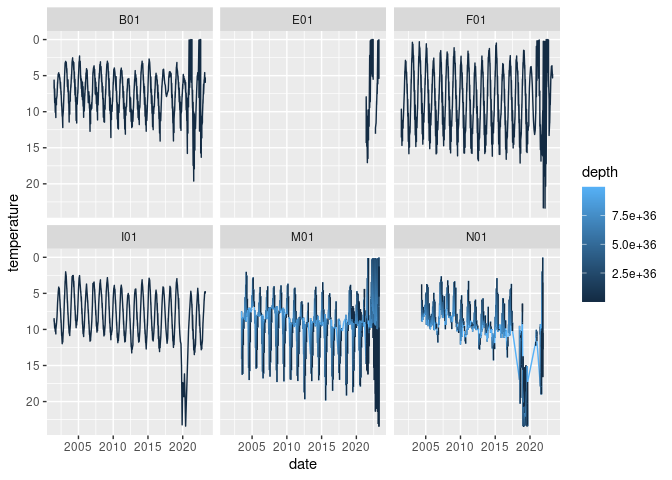
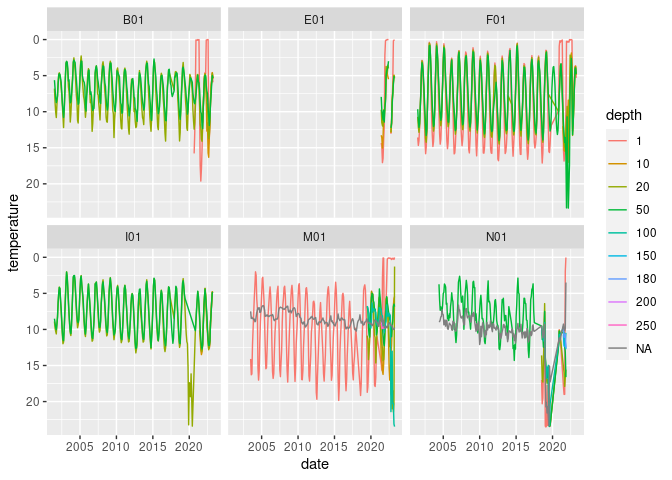
update buoy readme

diff --git a/README-buoys.md b/README-buoys.md
@@ -100,9 +100,17 @@ all buoys are read and bound into one table.
 
 ``` r
 x <- read_buoy_ctd() |>
+  dplyr::mutate(depth = factor(as.integer(depth))) |>
   dplyr::mutate(month = format(date, "%b"), .after = date) |>
   dplyr::group_by(buoy)
+```
 
+    ## Warning: There was 1 warning in `dplyr::mutate()`.
+    ## ℹ In argument: `depth = factor(as.integer(depth))`.
+    ## Caused by warning in `factor()`:
+    ## ! NAs introduced by coercion to integer range
+
+``` r
 ggplot(data = x, aes(x = date, y = temperature, color = depth)) +
   scale_y_reverse()  + 
   geom_line() + 
